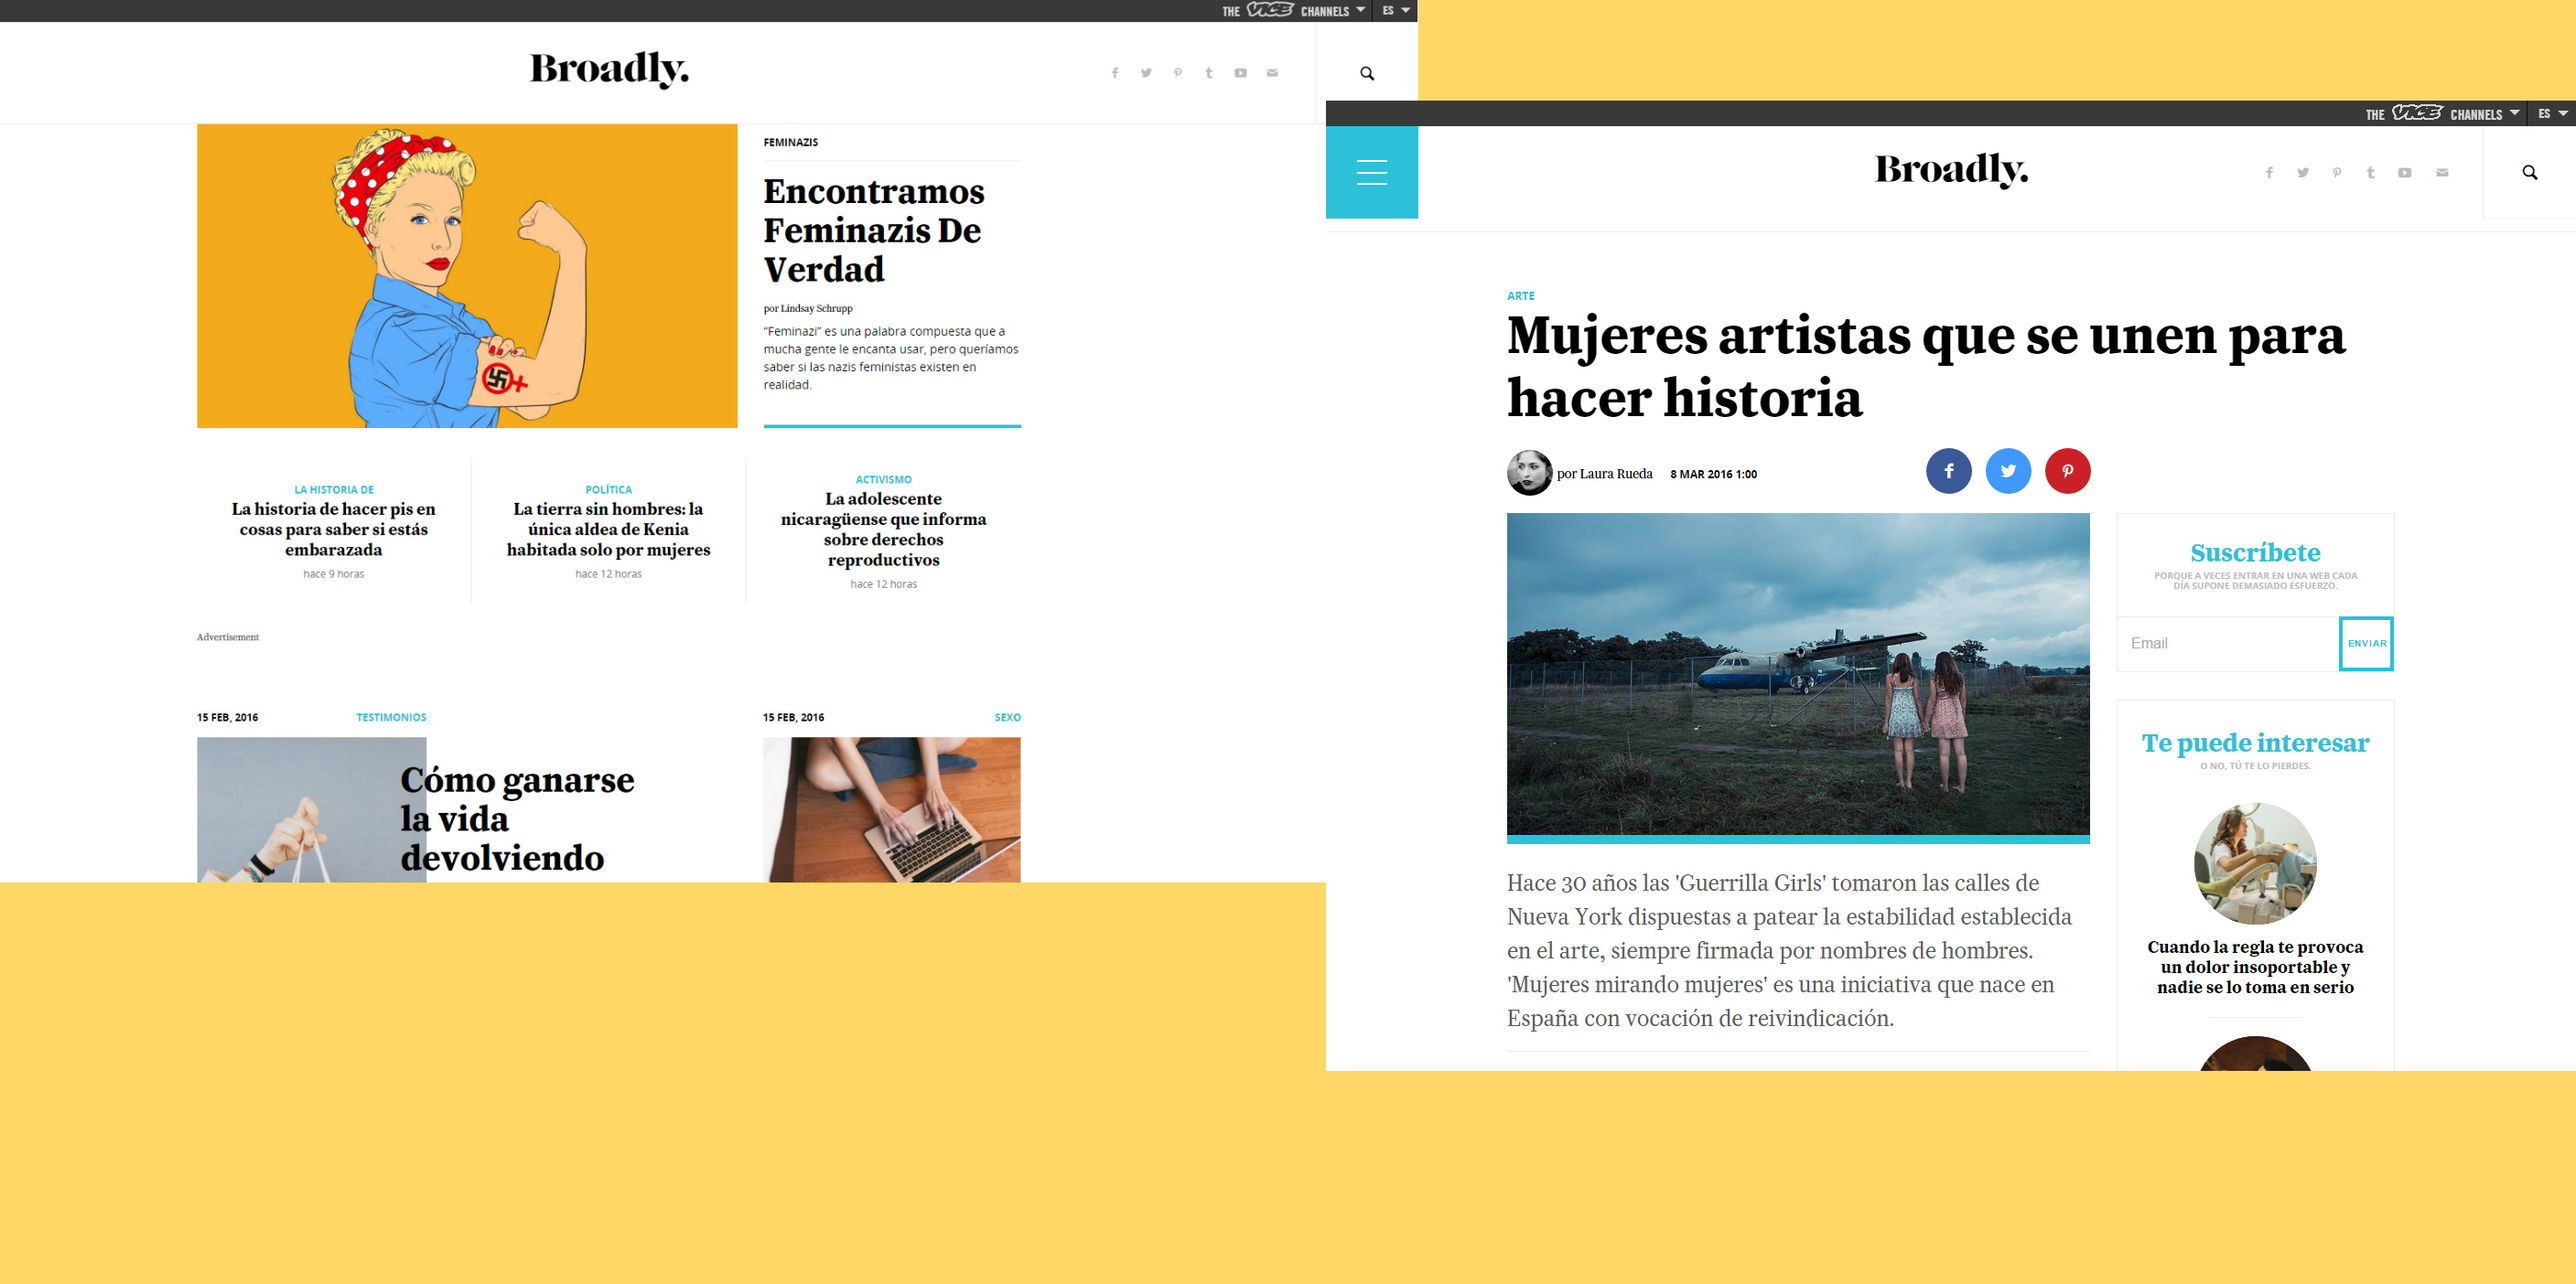
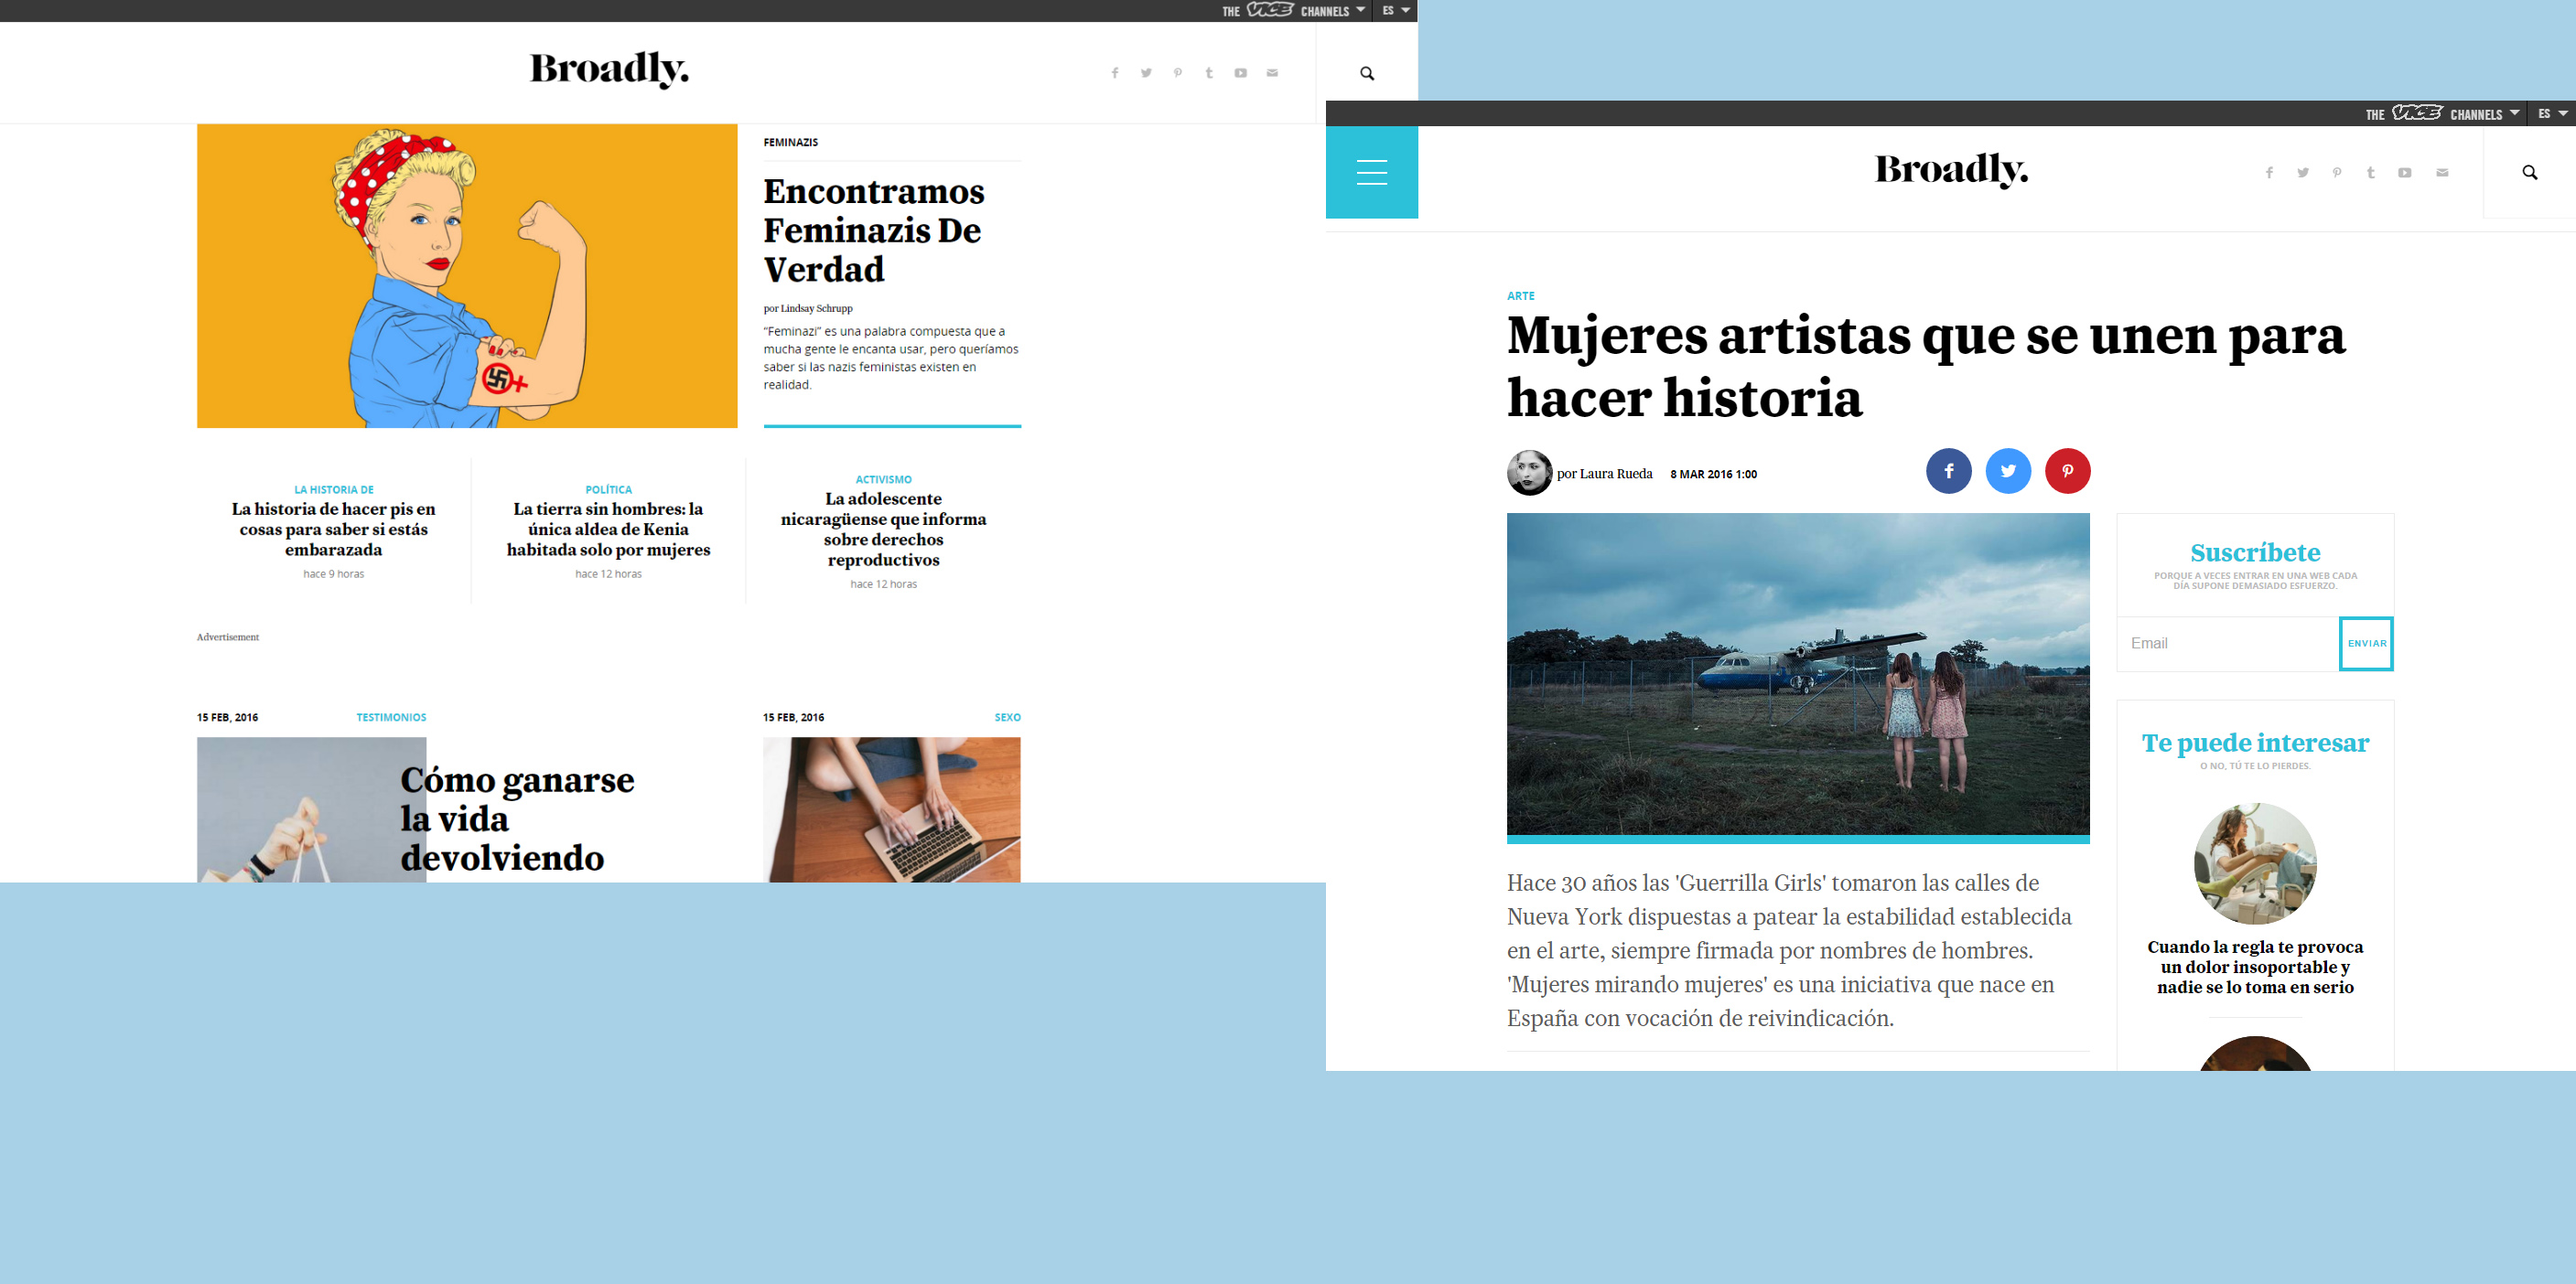
change color palette

Changed region(s): [[0.0, 0.6738, 1.0, 1.0], [0.5254, 0.0, 1.0, 0.0919]]

diff --git a/styles/style.css b/styles/style.css
@@ -3,7 +3,7 @@ body, html {
   font-family: 'Open Sans', sans-serif;
   margin: 0;
   font-size: 1em;
-  color: #395C6B;
+  color: #444;
 }
 
 ul, li {
@@ -12,7 +12,7 @@ ul, li {
 }
 
 a {
-  color: #00D9C0;
+  color: #f76c6c;
   text-decoration: none;
 }
 
@@ -23,7 +23,7 @@ h1, h2, h4 {
 h1 {
   /* text-transform: uppercase; */
   font-size: 5em;
-  color: #00D9C0;
+  color: #444;
   line-height: 1.2;
   margin: .5em 0;
 }
@@ -62,7 +62,7 @@ input, textarea {
   outline: none;
   border: none;
 }
-
+/* 
 input[type=radio] {
   border: 2px solid #FED766;
   padding: 1em;
@@ -70,25 +70,26 @@ input[type=radio] {
 
 input[type=radio]:checked {
   background: #FED766;
-}
+} */
 
 input[type=text],
 input[type=email],
 textarea {
-  border-bottom: 2px solid #395C6B;
+  border-bottom: 2px solid white;
   font-size: 1em;
-  color: #395C6B;
+  color: white;
 }
 
 input[type=text],
 input[type=email] {
   flex-basis: 45%;
+  line-height: 2;
 }
 
 input[type=text]::-webkit-input-placeholder,
 input[type=email]::-webkit-input-placeholder,
 textarea::-webkit-input-placeholder {
-  color: #395C6B;
+  color: white;
 }
 
 textarea {
@@ -131,7 +132,7 @@ textarea {
 
 .line-crumb:after {
   content: "";
-  background-color: #00D9C0;
+  background-color: #f76c6c;
   padding: .07em 4em;
   position: absolute;
   top: .6em;
@@ -139,7 +140,7 @@ textarea {
 }
 
 .line-crumb {
-  color: #00D9C0;
+  color: #f76c6c;
   font-weight: 800;
 }
 
@@ -170,14 +171,14 @@ textarea {
 
 .about button:first-child {
   margin-right: 1em;
-  background: #00D9C0;
-  color: #FFFCF9;
+  background: #f76c6c;
+  color: white;
   border: none;
 }
 
 .about button:last-child {
-  border: 2px solid #00D9C0;
-  color: #00D9C0;
+  border: 2px solid #f76c6c;
+  color: #f76c6c;
 }
 
 /* services section */
@@ -198,7 +199,8 @@ textarea {
 }
 
 .services h5 {
-  color: #00D9C0;
+  color: #f76c6c;
+  text-transform: uppercase;
 }
 
 .services {
@@ -206,12 +208,15 @@ textarea {
   grid-template-rows: [row1] 30% [row2] 55% [row3] 15%;
   grid-template-areas: "first . ." ". . second" "last last last";
   /* border-top: 4px solid #F59CA9; */
+  background: #24305e;
+  color: white;
 }
 
 /* portfolio section */
 .portfolio__row1 {
   grid-area: first;
   overflow: hidden;
+  /* grid-row: 1 / span 2; */
 }
 
 .portfolio__col2 {
@@ -220,6 +225,7 @@ textarea {
 
 .portfolio__col3 {
   grid-area: last;
+  border-top: 2px solid #24305e;
 }
 
 .portfolio__col2,
@@ -227,26 +233,26 @@ textarea {
   display: flex;
   flex-direction: column;
   justify-content: start;
-  padding: 3em 0;
+  margin: 2em 0;
   /* border-top: 2px solid #049A8F; */
-}
-
-.portfolio h2 {
-  color: white;
 }
 
 .portfolio {
   grid-template-rows: [row1] 80% [row2] 20%;
-  grid-template-columns: [col1] 4fr [col2] 3fr;
+  grid-template-columns: [col1] 4fr [col2] 4fr;
   grid-template-areas: "first first" "second last";
+  background: #a8d0e6;
+  color: #24305e;
 }
 
-.portfolio-one {
-  background: #00D9C0;
+.portfolio h2 {
+  color: #24305e;
 }
 
-.portfolio-two {
-  background: #FED766;
+.portfolio h3 {
+  text-transform: uppercase;
+  color: white;
+  margin: 0;
 }
 
 /* contact section */
@@ -261,11 +267,12 @@ textarea {
 .contact {
   grid-template-columns: [col1] 1.5fr [col2] 1fr [col3] 3fr;
   grid-template-areas: "first . second";
+  background: #f76c6c;
+  color: white;
 }
 
 .contact h2 {
-  color: #FED766;
-    margin: 0 0 1em;
+  margin: 0 0 1em;
 }
 
 form p {
@@ -282,8 +289,8 @@ form p {
 }
 
 .contact button {
-  background: #FED766;
-  border: none;
+  background: none;
+  border: 2px solid white;
   color: white;
   margin-top: 3em;
 }

diff --git a/index.html b/index.html
@@ -122,7 +122,7 @@
         </div>
         <div class="item contact__col2">
           <form name="contact" method="POST" data-netlify="true">
-            <h3>Is The Project</h3>
+            <!-- <h3>Is The Project</h3>
             <p>
               <input type="radio" name="complexity" />
               <label class="radio" for="complexity">a landing page</label>
@@ -139,13 +139,13 @@
             <p>
               <input type="radio" name="cms" />
               <label class="radio" for="cms">yes</label>
-            </p>
-            <p>
+            </p> -->
+            <!-- <p>
               <input type="radio" name="cms" />
               <label class="radio" for="cms">no</label>
-            </p>
+            </p> -->
              <p>
-              <textarea name="message" placeholder="message"></textarea>
+              <textarea name="message" placeholder="tell me about your project"></textarea>
              </p>
             <p class="name-email">
               <input type="text" name="name" placeholder="name" />
